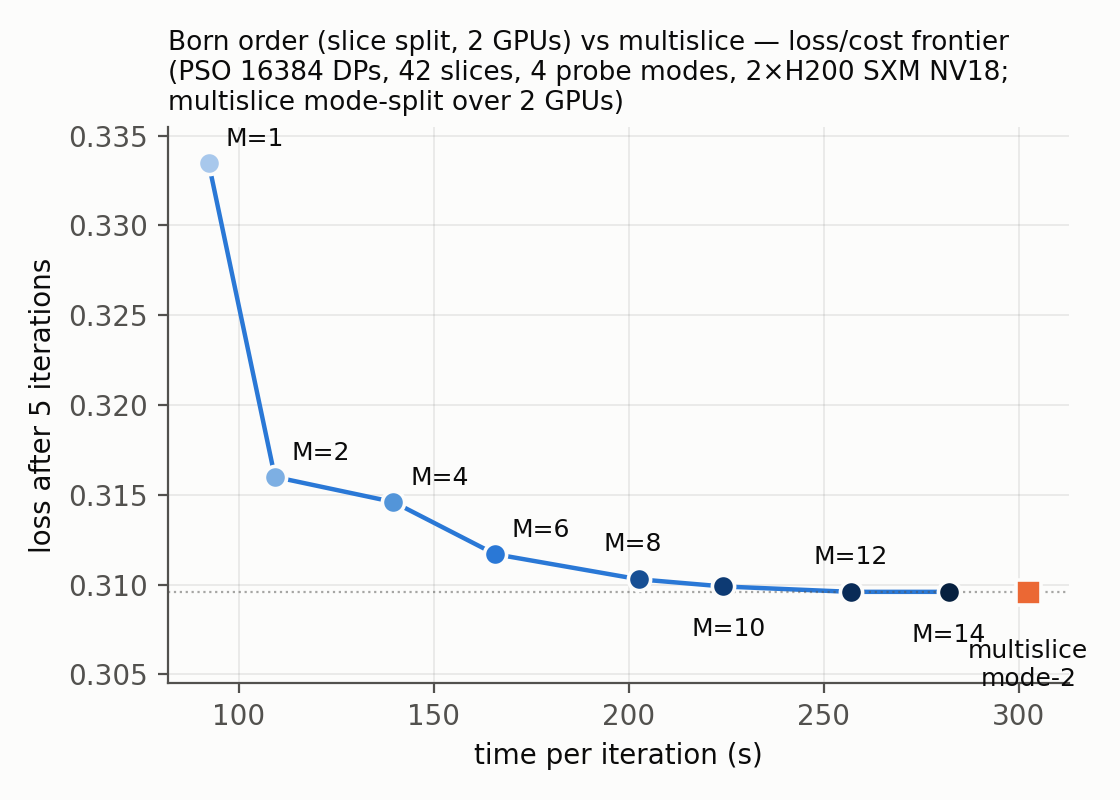
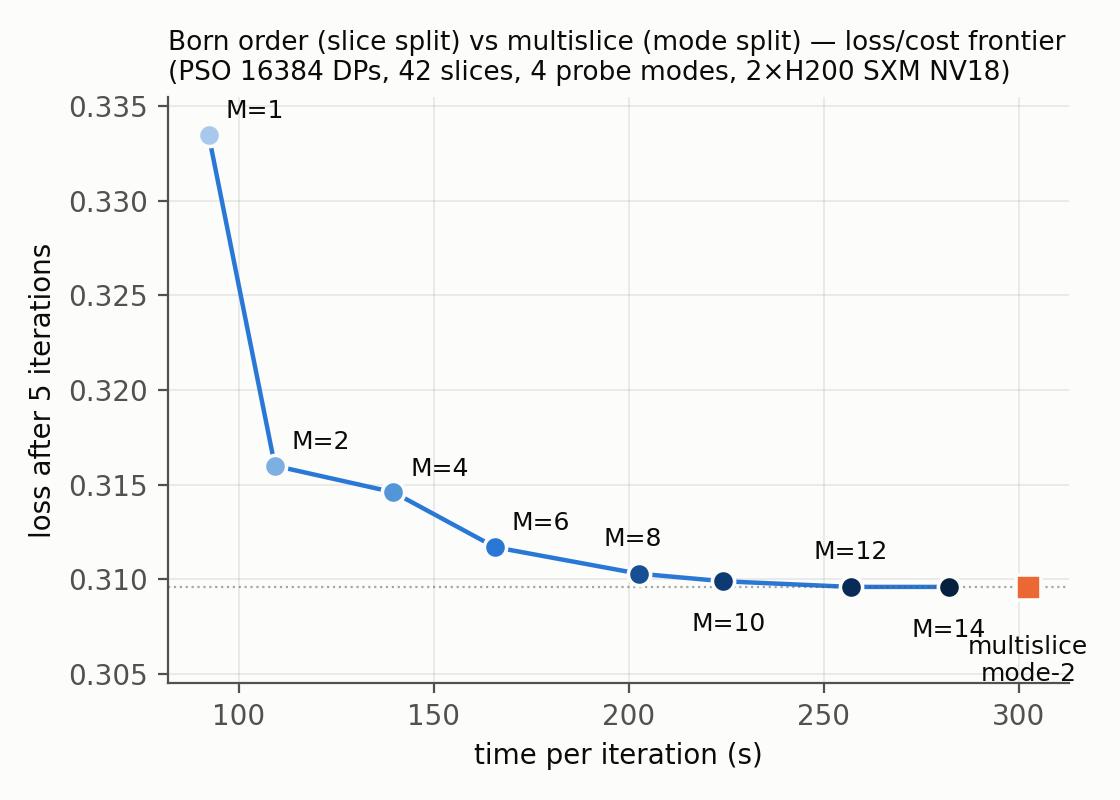
ms2only title: splits named per method, GPU count lives only in the 2xH200 hardware note

diff --git a/demo/nvlink/redo/make_figs_h200.py b/demo/nvlink/redo/make_figs_h200.py
@@ -64,7 +64,8 @@ EXT_SITER = {}
 
 # ---- A. Pareto: iter-5 loss vs time per iteration --------------------------
 # Three variants: both MS points / MS 1-GPU only (recommended) / mode-2 only.
-def pareto(name, show_ms1, show_ms2, subtitle):
+def pareto(name, show_ms1, show_ms2, subtitle,
+           titleline="Born order (slice split, 2 GPUs) vs multislice"):
     fig, ax = plt.subplots(figsize=(5.6, 4.0))
     ax.plot(SLICE_SITER, LOSS5, "-", color="#2a78d6", linewidth=1.6, zorder=2)
     OFF = {1: (6, 6), 2: (6, 6), 4: (6, 6), 6: (6, 6),
@@ -97,8 +98,8 @@ def pareto(name, show_ms1, show_ms2, subtitle):
     ax.set_ylim(0.3045, 0.3355)
     ax.set_xlabel("time per iteration (s)")
     ax.set_ylabel("loss after 5 iterations")
-    ax.set_title("Born order (slice split, 2 GPUs) vs multislice — "
-                 "loss/cost frontier\n" + subtitle, fontsize=9.5, loc="left")
+    ax.set_title(titleline + " — loss/cost frontier\n" + subtitle,
+                 fontsize=9.5, loc="left")
     ax.grid(axis="both", color=INK2, alpha=0.12, linewidth=0.6)
     save(fig, name)
 
@@ -109,8 +110,8 @@ pareto("fig_h200_pareto_ms1gpu", True, False,
        "(PSO 16384 DPs, 42 slices, 4 probe modes, 2×H200 SXM NV18;\n"
        "multislice shown at its best: 1 GPU)")
 pareto("fig_h200_pareto_ms2only", False, True,
-       "(PSO 16384 DPs, 42 slices, 4 probe modes, 2×H200 SXM NV18;\n"
-       "multislice mode-split over 2 GPUs)")
+       "(PSO 16384 DPs, 42 slices, 4 probe modes, 2×H200 SXM NV18)",
+       titleline="Born order (slice split) vs multislice (mode split)")
 
 # ---- B. s/iter vs M, split-axis comparison ---------------------------------
 fig, ax = plt.subplots(figsize=(5.6, 3.8))
